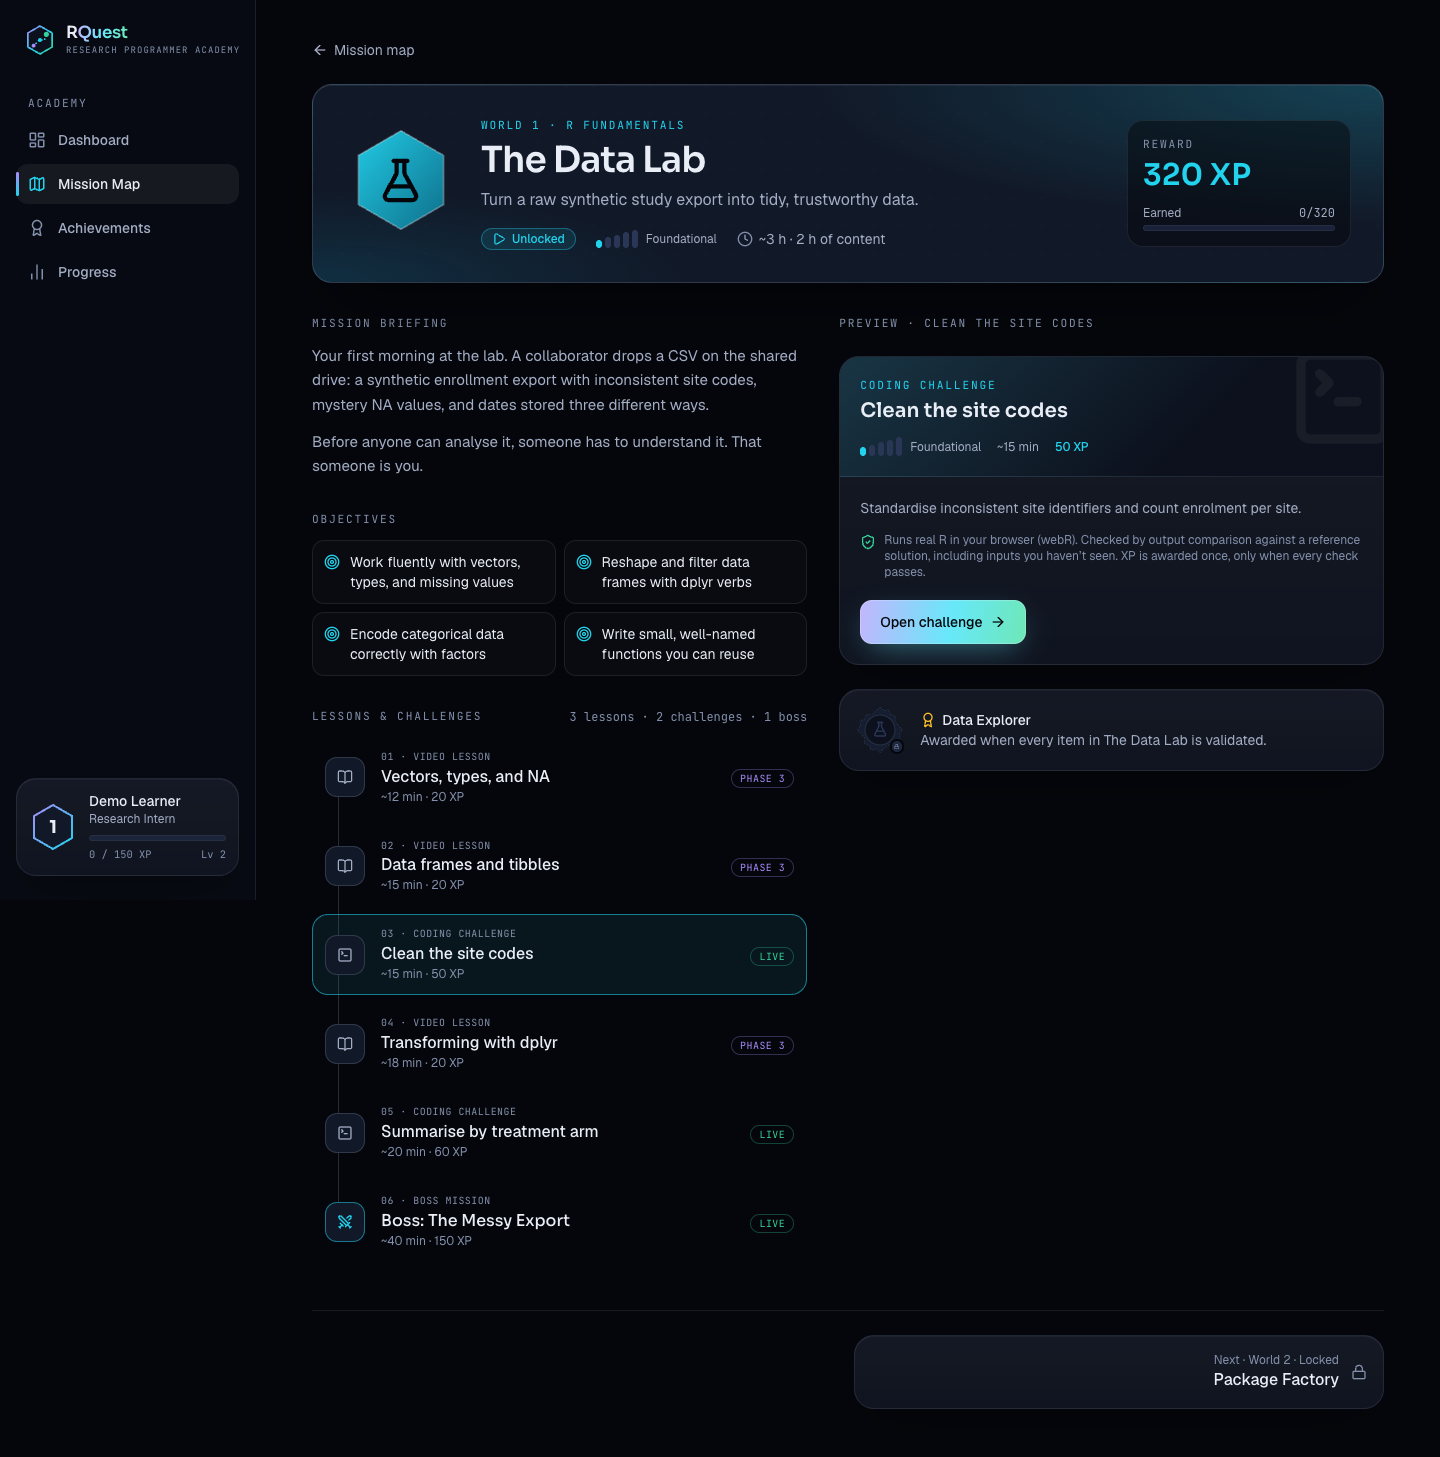
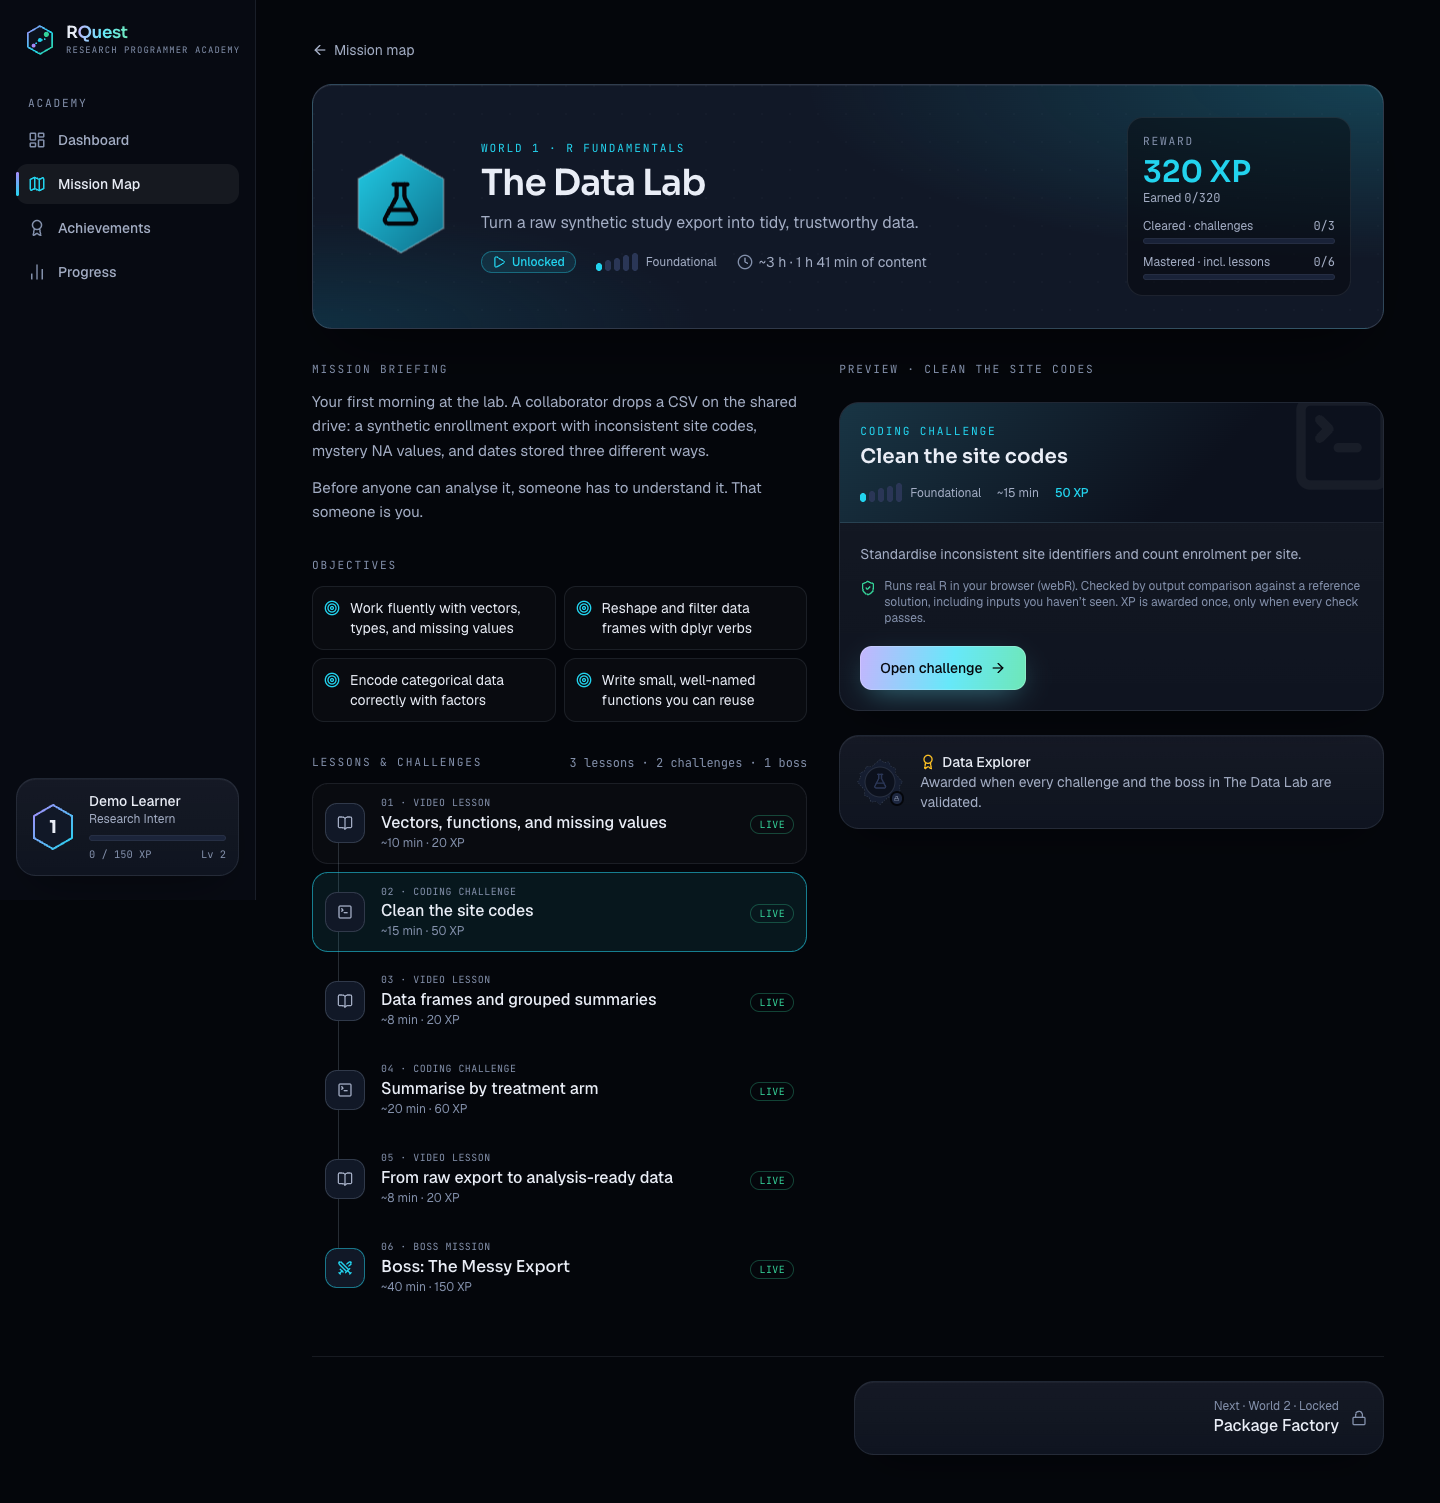
lesson e2e and docs

diff --git a/README.md b/README.md
@@ -5,8 +5,12 @@ Five worlds take a learner from R fundamentals to reproducible statistical progr
 
 Independent portfolio project. Not affiliated with or endorsed by any institution. All data is synthetic.
 
-**Status: Phase 2 complete.** All 15 challenges across the five worlds run real R in the browser (webR)
-and are validated automatically. XP comes only from those validations. Lessons (video plus a comprehension
+**Live:** https://parammadan.github.io/rquest/ (GitHub Pages, static export, deployed by `.github/workflows/pages.yml`)
+
+**Status: Phase 3A.** All 15 challenges across the five worlds run real R in the browser (webR) and are
+validated automatically. World 1 has its instructional video and three full lessons (video, written
+walkthrough, live R examples, and a knowledge check). Worlds 2–5 lessons are honest placeholders until
+their videos are produced. XP comes only from those validations. Lessons (video plus a comprehension
 check) are Phase 3. A world unlocks once the
 previous world is *cleared*, meaning all its challenges and its boss are validated; lessons add bonus XP
 and count toward full mastery.
@@ -18,9 +22,12 @@ pnpm install
 pnpm dev                 # http://localhost:3000 (dev scenarios at /academy/dev)
 
 pnpm verify              # typecheck + lint + unit tests + production build
-pnpm build && pnpm test:e2e            # 22 browser checks (system Chrome via playwright-core)
-pnpm build && pnpm test:e2e:challenges # real-R challenge flows in Chrome via webR (needs network)
-pnpm build && pnpm test:validators      # every reference solution passes; every starter fails
+pnpm build:pages                       # static export to out/ (base path /rquest, as on GitHub Pages)
+pnpm test:e2e                          # site-wide browser checks against out/ (system Chrome via playwright-core)
+pnpm test:e2e:lessons                  # lesson experience: video, captions, transcript, live R, completion rules
+pnpm test:e2e:challenges               # all 15 challenges through the real UI with webR (needs network)
+pnpm test:validators                   # every reference solution passes; every starter fails
+SITE_URL=https://parammadan.github.io/rquest pnpm test:e2e   # any suite, against production
 SHOTS=1 pnpm test:e2e                  # also writes docs/screenshots/
 NEXT_PUBLIC_RQUEST_DEV_TOOLS=1 pnpm build && node scripts/scenario-shots.mjs   # seeded-state screenshots
 ```
@@ -102,3 +109,18 @@ A banner shows on every page while one is active. They are available in `next de
   A unit test fails if a challenge and its validator don't match up.
 - To move to a database, implement `ProgressRepository` against an API.
 - `VideoMetadata` (status, src, transcript, outline) is ready for generated lessons in Phase 3.
+
+## Lessons and videos (Phase 3A)
+
+- One video per world (`content/videos.ts`), shared by the world's three lessons through chapter ids.
+  Sources are configurable: MP4 and/or YouTube id. `NEXT_PUBLIC_RQUEST_MEDIA_BASE` points at a CDN or object store.
+- MP4s are published as GitHub Release assets (`media-*` tags) and copied into the Pages site at deploy time,
+  so they stay out of git history. Captions (WebVTT) and posters are small and committed.
+- Each lesson's content (`content/lessons/*.ts`) holds a briefing, objectives, key points, explanation blocks
+  (with runnable R), a step-through walkthrough, and a knowledge check. Each lesson sits right before the
+  challenge it prepares for.
+- **Completion rule:** a lesson completes only when every knowledge-check answer is correct. That issues a
+  `lesson-check:*` receipt, worth 20 XP once. Opening the page or watching the video never completes it.
+- **States:** challenge validated → lesson completed → world **cleared** (all challenges + boss; unlocks
+  the next world) → world **mastered** (cleared + every lesson). Existing challenge progress is untouched.
+- Video pipeline and storyboard: `video/README.md`.
